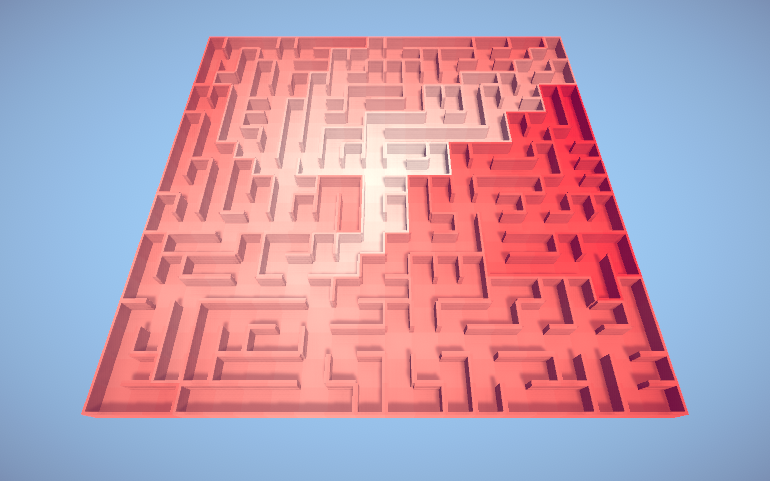
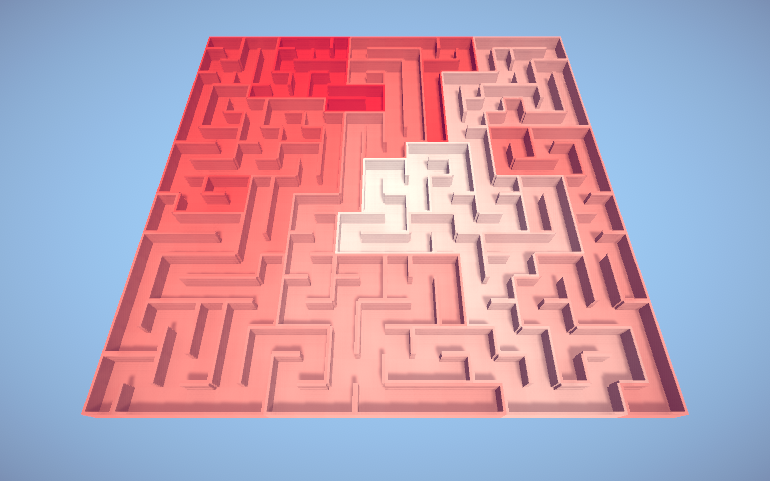
Fixed the Hunt and Kill algorithm

diff --git a/Assets/Scripts/MazeGenerator.cs b/Assets/Scripts/MazeGenerator.cs
@@ -15,7 +15,7 @@ public class MazeGenerator : MonoBehaviour
 
     void Start()
     {
-        CalculateAverageDeadEnds();
+        CalculateAverageDeadEnds(1);
         
         Grid grid = new Grid(_columns, _rows);
 
@@ -38,10 +38,10 @@ public class MazeGenerator : MonoBehaviour
                 break;
         }
 
-        InstantiateMazeTiles(grid);
+        InstantiateMazeTiles(grid, true);
     }
 
-    public void InstantiateMazeTiles(Grid grid)
+    public void InstantiateMazeTiles(Grid grid, bool colorByDistance)
     {
         for (int i = _liveMazeTiles.Count - 1; i >= 0; --i)
         {
@@ -64,18 +64,19 @@ public class MazeGenerator : MonoBehaviour
             MazeTile mazeTile = Instantiate(tile, position, tile.transform.rotation);
             _liveMazeTiles.Add(mazeTile);
 
-            var tileMaterialPropertyBlock = new MaterialPropertyBlock();
-            var distance = distances[cell];
-            float h, s, v;
-            Color.RGBToHSV(_mazeColor, out h, out s, out v);
-            s = 1 - ((maxDistance - distance) / (float) maxDistance);
-
-            tileMaterialPropertyBlock.SetColor("_Color", Color.HSVToRGB(h, s, v));
-            // if (path.Contains(cell))
-            // {
-            var tileRenderer = mazeTile.GetComponent<MeshRenderer>();
-            tileRenderer.SetPropertyBlock(tileMaterialPropertyBlock);
-            // }
+            if (colorByDistance)
+            {
+                var tileMaterialPropertyBlock = new MaterialPropertyBlock();
+                var distance = distances[cell];
+                float h, s, v;
+                Color.RGBToHSV(_mazeColor, out h, out s, out v);
+                s = 1 - ((maxDistance - distance) / (float) maxDistance);
+                
+                tileMaterialPropertyBlock.SetColor("_Color", Color.HSVToRGB(h, s, v));
+                
+                var tileRenderer = mazeTile.GetComponent<MeshRenderer>();
+                tileRenderer.SetPropertyBlock(tileMaterialPropertyBlock);
+            }
         }
     }
 
@@ -136,7 +137,7 @@ public class MazeGenerator : MonoBehaviour
         return result;
     }
 
-    void CalculateAverageDeadEnds()
+    void CalculateAverageDeadEnds(int tries)
     {
         var algorithms = new List<Maze.GenerateMaze>
         {
@@ -147,9 +148,6 @@ public class MazeGenerator : MonoBehaviour
             Maze.GenerateHuntAndKill
         };
 
-        const int tries = 100;
-        const int size = 20;
-
         StringBuilder result = new StringBuilder();
 
         foreach (var algorithm in algorithms)
@@ -157,7 +155,7 @@ public class MazeGenerator : MonoBehaviour
             int averageDeadEnds = 0;
             for (int i = 0; i < tries; ++i)
             {
-                var grid = new Grid(size, size);
+                var grid = new Grid(_columns, _rows);
                 algorithm(grid);
 
                 var deadEnds = Maze.CalculateDeadEnds(grid);

diff --git a/Assets/Scripts/Maze.cs b/Assets/Scripts/Maze.cs
@@ -1,6 +1,8 @@
 using System;
+using System.Collections;
 using System.Collections.Generic;
 using System.Linq;
+using UnityEngine;
 using Random = UnityEngine.Random;
 
 public class Grid
@@ -333,6 +335,42 @@ public static class Maze
                         currentCell = cell;
                         var neighbour = visitedNeighbours.Sample();
                         currentCell.Link(neighbour, true);
+                        break;
+                    }
+                }
+            }
+        }
+    }
+
+    public static IEnumerator GenerateHuntAndKill(Grid grid, MazeGenerator mazeGenerator)
+    {
+        var currentCell = GetRandomCell(grid);
+
+        while (currentCell != null)
+        {
+            var unvisitedNeighbours = currentCell.GetNeighboursList().FindAll(c => c.Links.Count == 0);
+            if (unvisitedNeighbours.Count > 0)
+            {
+                var neighbour = unvisitedNeighbours.Sample();
+                currentCell.Link(neighbour, true);
+                currentCell = neighbour;
+                mazeGenerator.InstantiateMazeTiles(grid, false);
+                yield return new WaitForSeconds(0.1f);
+            }
+            else
+            {
+                currentCell = null;
+                foreach (var cell in grid.Cells)
+                {
+                    var visitedNeighbours = cell.GetNeighboursList().FindAll(c => c.Links.Count > 0);
+                    if (cell.Links.Count == 0 && visitedNeighbours.Count > 0)
+                    {
+                        currentCell = cell;
+                        var neighbour = visitedNeighbours.Sample();
+                        currentCell.Link(neighbour, true);
+                        mazeGenerator.InstantiateMazeTiles(grid, false);
+                        yield return new WaitForSeconds(0.1f);
+                        break;
                     }
                 }
             }
@@ -407,7 +445,7 @@ public static class Maze
         List<Cell> result = new List<Cell>();
         foreach (var cell in grid.Cells)
         {
-            if (cell.Links.Count == 1) 
+            if (cell.Links.Count == 1)
                 result.Add(cell);
         }
 
